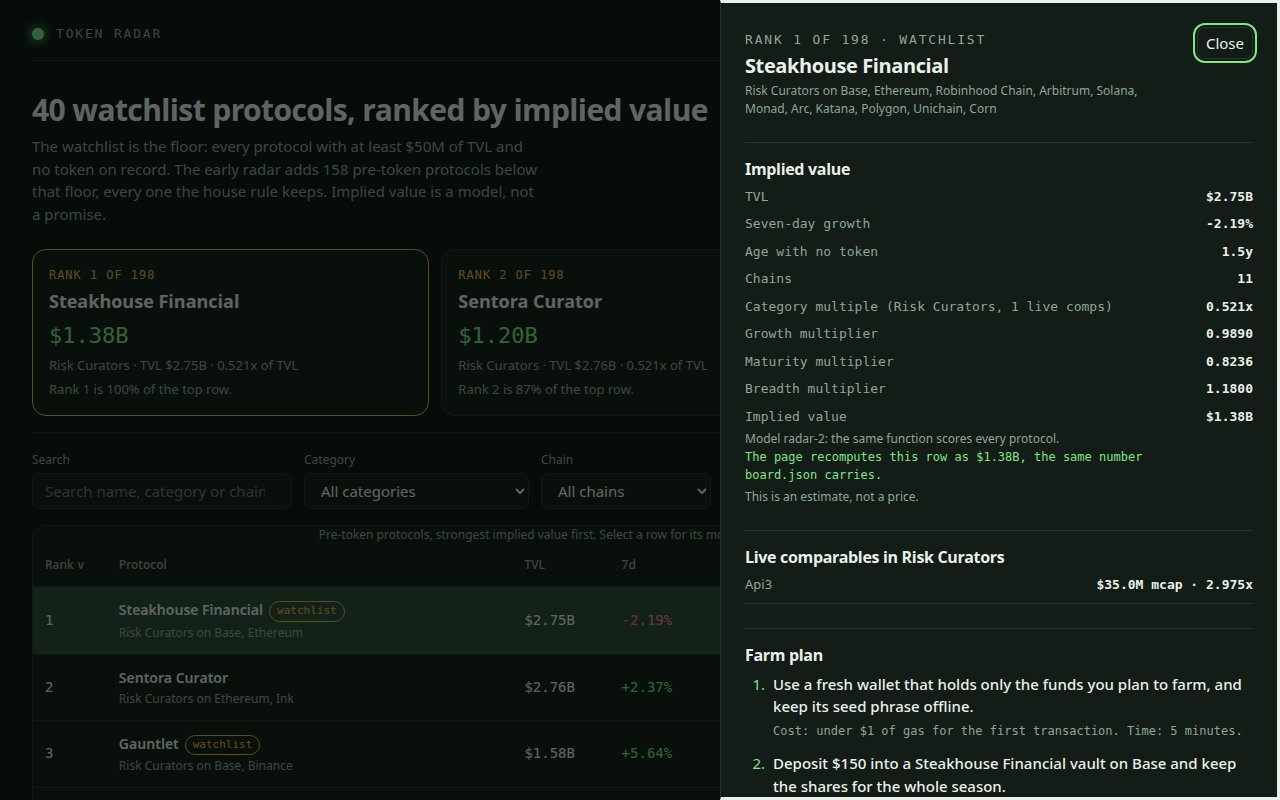
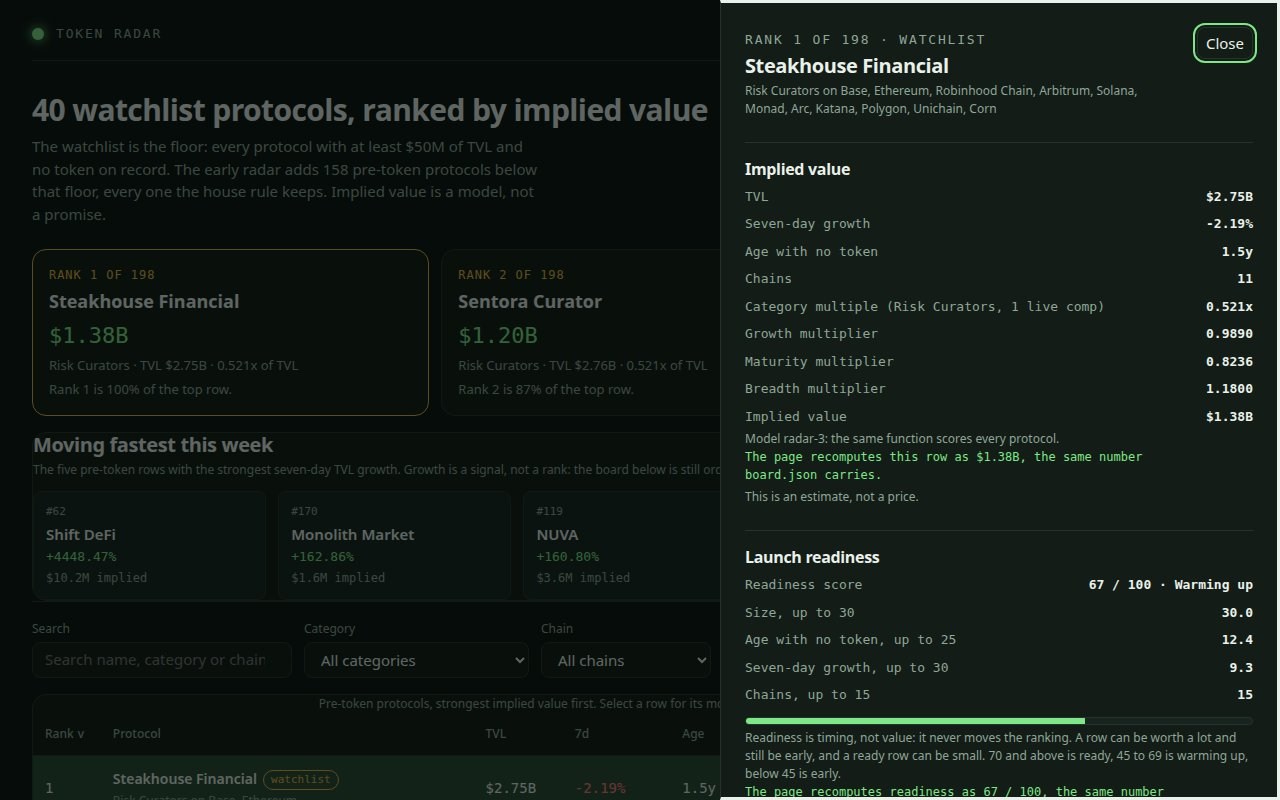
radar-3: launch-readiness score, top movers, 8-step farm plans, SPDX license line

diff --git a/dashboard/app.js b/dashboard/app.js
@@ -1,8 +1,9 @@
 // Token Radar's dashboard. It reads window.RADAR (written beside dashboard/ by main.ts) and
-// renders the ranked board, a filterable table, a per-protocol detail view with the model's own
-// inputs, its live comparables and the protocol's farm plan. No network: every byte it shows is
-// in data.js. The page recomputes each row from the snapshot figures and the comps table, so the
-// number on screen is the same arithmetic board.json carries.
+// renders the ranked board, a filterable table, a top-movers strip, and a per-protocol detail view
+// with the model's own inputs, its live comparables, a launch-readiness score and the protocol's
+// farm plan. No network: every byte it shows is in data.js. The page recomputes each row from
+// the snapshot figures and the comps table, so the number on screen is the same arithmetic
+// board.json carries.
 (function () {
   'use strict';
 
@@ -77,6 +78,29 @@
     var m = DATA.model;
     var chains = row.chains && row.chains.length > 0 ? row.chains.length : 1;
     return 1 + Math.min(chains - 1, m.breadth_max_chains) * m.breadth_per_chain;
+  }
+
+  // Launch readiness, 0..100, from the same four facts the value model reads, weighted for timing
+  // instead of size: size is worth 30 (a $2B protocol scores the full 30, a $50M one scores 0),
+  // age 25 (three years with no token scores the full 25), seven-day growth 30 (flat scores 10,
+  // +60% scores 30, -30% scores 0), and breadth 15 (one chain scores 0, nine or more score 15).
+  // The page recomputes the same score from the same figures, so the number on screen is the
+  // number board.json carries. It never moves the ranking: it is the timing read beside the
+  // value read, so a row can be worth a lot and still be early.
+  function readinessOf(row) {
+    var size = Math.max(0, Math.min(30, (30 * Math.log10(Math.max(row.tvl_usd, 1) / 50000000)) / Math.log10(40)));
+    var age = row.age_days === null || row.age_days === undefined ? DATA.model.unknown_age_days : row.age_days;
+    var agePts = Math.min(25, (25 * Math.min(Math.max(age, 0), DATA.model.maturity_days)) / DATA.model.maturity_days);
+    var growth = row.change_7d === null || row.change_7d === undefined ? 0 : row.change_7d;
+    var growthPts = 10 + Math.min(20, Math.max(-10, (Math.min(60, Math.max(-30, growth)) / 60) * 20));
+    var chains = row.chains && row.chains.length > 0 ? row.chains.length : 1;
+    var breadthPts = Math.min(15, Math.max(0, chains - 1) * 2);
+    return Math.min(100, Math.max(0, Math.round(size + agePts + growthPts + breadthPts)));
+  }
+  function readinessLabel(score) {
+    if (score >= 70) return 'Ready';
+    if (score >= 45) return 'Warming up';
+    return 'Early';
   }
 
   function el(tag, attrs) {
@@ -160,7 +184,9 @@
       { text: 'Make one qualifying action each week, such as a deposit, a borrow, a swap or a vote.', cost: gas + ' a week', time: '10 minutes a week' },
       { text: 'Hold the position for at least ' + hold + ' days so the activity is counted in more than one snapshot.', cost: 'the $' + capital + ' stays in the position', time: hold + ' days' },
       { text: "Before you withdraw, open the protocol's own points or rewards page and claim only from the link it publishes.", cost: 'no fee to check, and never pay to claim', time: '10 minutes' },
-      { text: 'Write the wallet, the dates and every transaction in a farm log so you can repeat the position or unwind it.', cost: 'nothing but the log', time: '5 minutes' }
+      { text: 'Write the wallet, the dates and every transaction in a farm log so you can repeat the position or unwind it.', cost: 'nothing but the log', time: '5 minutes' },
+      { text: "Check the protocol's own announcement channels once a week, its governance forum and its social account, and note the date of any token or points announcement.", cost: 'no fee, just the weekly check', time: '10 minutes a week' },
+      { text: "Decide the exit before the launch: how much of any airdrop to keep and how much to sell, and leave enough of the chain's gas token in the wallet to claim and move it.", cost: 'the gas token you keep back', time: '10 minutes' }
     ].map(stepText);
   }
 
@@ -207,6 +233,7 @@
       else if (key === 'tvl') { av = a.tvl_usd; bv = b.tvl_usd; }
       else if (key === 'growth') { av = a.change_7d === null ? -Infinity : a.change_7d; bv = b.change_7d === null ? -Infinity : b.change_7d; }
       else if (key === 'age') { av = a.age_days === null ? Infinity : a.age_days; bv = b.age_days === null ? Infinity : b.age_days; }
+      else if (key === 'readiness') { av = readinessOf(a); bv = readinessOf(b); }
       else if (key === 'multiple') { av = a.category_multiple; bv = b.category_multiple; }
       else { av = a.implied_value_usd; bv = b.implied_value_usd; }
       if (av < bv) return -state.dir;
@@ -254,6 +281,29 @@
           el('span', { class: 'spot-sub', text: 'Rank ' + r.rank + ' is ' + Math.round((r.implied_value_usd / max) * 100) + '% of the top row.' })
         );
       })
+    );
+  }
+
+  // The week's fastest growers on the board: the five pre-token rows whose TVL moved the most
+  // in seven days. Growth alone is not value — the board is still ranked by implied value — but
+  // a row that is both large and suddenly growing is the one whose launch window may be opening.
+  function movers() {
+    var top = DATA.rows.slice().sort(function (a, b) {
+      var av = a.change_7d === null ? -Infinity : a.change_7d;
+      var bv = b.change_7d === null ? -Infinity : b.change_7d;
+      return bv - av || (a.slug < b.slug ? -1 : 1);
+    }).slice(0, 5);
+    return el('section', { class: 'panel movers', 'aria-label': 'Fastest growers this week' },
+      el('h2', { text: 'Moving fastest this week' }),
+      el('p', { class: 'sub', text: 'The five pre-token rows with the strongest seven-day TVL growth. Growth is a signal, not a rank: the board below is still ordered by implied value.' }),
+      el('div', { class: 'mover-list' }, top.map(function (r) {
+        return el('button', { type: 'button', class: 'mover', onclick: function () { openDetail(r.slug); } },
+          el('span', { class: 'mover-rank', text: '#' + r.rank }),
+          el('span', { class: 'mover-name', text: r.name }),
+          el('span', { class: 'mover-growth ' + (r.change_7d >= 0 ? 'pos' : 'neg'), text: fmtPct(r.change_7d) }),
+          el('span', { class: 'mover-value', text: fmtUsd(r.implied_value_usd) + ' implied' })
+        );
+      }))
     );
   }
 
@@ -324,6 +374,7 @@
         el('td', { class: 'num', text: fmtUsd(r.tvl_usd) }),
         el('td', { class: 'num ' + growthClass, text: growth }),
         el('td', { class: 'num', text: fmtAge(r.age_days) }),
+        el('td', { class: 'num', text: readinessOf(r) + ' / 100' }),
         el('td', { class: 'num', text: fmtMult(r.category_multiple) }),
         el('td', null, el('div', { class: 'implied' },
           el('div', { class: 'bar', 'aria-hidden': 'true' }, el('i', { style: 'width:' + Math.max(3, Math.round((r.implied_value_usd / max) * 100)) + '%' })),
@@ -343,6 +394,7 @@
             sortHeader('tvl', 'TVL'),
             sortHeader('growth', '7d'),
             sortHeader('age', 'Age'),
+            sortHeader('readiness', 'Ready'),
             sortHeader('multiple', 'Multiple'),
             sortHeader('implied', 'Implied value'),
             el('th', { scope: 'col', text: 'Token' })
@@ -395,6 +447,7 @@
         'implied = round( tvl_usd x category_multiple x (1 + clamp(change_7d, ' + m.growth_floor + ', ' + m.growth_cap + ') / 100 x ' + m.growth_weight + ') x (' + m.maturity_floor + ' + min(age_days, ' + m.maturity_days + ') / ' + m.maturity_days + ' x ' + m.maturity_range + ') x (1 + min(chains - 1, ' + m.breadth_max_chains + ') x ' + m.breadth_per_chain + ') )'
       ),
       el('p', { class: 'sub', text: 'The category multiple is the median market-cap-to-TVL ratio of the live protocols in that category, each ratio first capped at the market 90th percentile of ' + fmtRatio(DATA.winsor_cap) + ', then shrunk toward the whole market median of ' + fmtRatio(DATA.global_median) + ' with weight ' + m.shrink_k + ' so a category with one or two comparables cannot price a protocol at ten times its TVL, and clamped to ' + m.multiple_floor + 'x-' + m.multiple_cap + 'x. Age is the time since the protocol was first listed, the best record of how long it has run with no token; an unlisted age uses ' + m.unknown_age_days + ' days.' }),
+      el('p', { class: 'sub', text: 'Readiness is a second score, 0 to 100, built from the same four facts and weighted for timing: size is worth 30, age 25, seven-day growth 30 and breadth 15. It never moves the ranking; it is the timing read beside the value read. Every row also carries an eight-step farm plan, and the page recomputes the plan from the same figures, so the steps on screen are the steps board.json carries.' }),
       el('div', { class: 'table-wrap' },
         el('table', { class: 'comps' },
           el('caption', { class: 'sub', text: 'Live comparables by category: the market the multiples are calibrated on.' }),
@@ -417,6 +470,7 @@
     dialog.textContent = '';
     var steps = farmSteps(row);
     var recomputed = impliedOf(row);
+    var ready = readinessOf(row);
     var comp = compFor(row.category);
     var sameCategory = DATA.live_all.filter(function (l) { return l.category === row.category; })
       .sort(function (a, b) { return (b.mcap_usd || 0) - (a.mcap_usd || 0); }).slice(0, 3);
@@ -454,6 +508,19 @@
       el('p', { class: 'sub', text: 'This is an estimate, not a price.' })
     ));
     dialog.appendChild(el('section', { class: 'detail-section' },
+      el('h3', { text: 'Launch readiness' }),
+      el('div', { class: 'equation' },
+        el('div', null, el('span', { text: 'Readiness score' }), el('b', { class: 'num', text: ready + ' / 100 · ' + readinessLabel(ready) })),
+        el('div', null, el('span', { text: 'Size, up to 30' }), el('b', { class: 'num', text: Math.max(0, Math.min(30, (30 * Math.log10(Math.max(row.tvl_usd, 1) / 50000000)) / Math.log10(40))).toFixed(1) })),
+        el('div', null, el('span', { text: 'Age with no token, up to 25' }), el('b', { class: 'num', text: (Math.min(25, (25 * Math.min(Math.max(row.age_days === null ? DATA.model.unknown_age_days : row.age_days, 0), DATA.model.maturity_days)) / DATA.model.maturity_days)).toFixed(1) })),
+        el('div', null, el('span', { text: 'Seven-day growth, up to 30' }), el('b', { class: 'num', text: (10 + Math.min(20, Math.max(-10, (Math.min(60, Math.max(-30, row.change_7d === null ? 0 : row.change_7d)) / 60) * 20))).toFixed(1) })),
+        el('div', null, el('span', { text: 'Chains, up to 15' }), el('b', { class: 'num', text: String(Math.min(15, Math.max(0, (row.chains ? row.chains.length : 1) - 1) * 2)) }))
+      ),
+      el('div', { class: 'ready-bar', 'aria-hidden': 'true' }, el('i', { style: 'width:' + ready + '%' })),
+      el('p', { class: 'sub', text: 'Readiness is timing, not value: it never moves the ranking. A row can be worth a lot and still be early, and a ready row can be small. 70 and above is ready, 45 to 69 is warming up, below 45 is early.' }),
+      el('p', { class: ready === row.readiness ? 'match' : 'mismatch', text: ready === row.readiness ? 'The page recomputes readiness as ' + ready + ' / 100, the same number board.json carries.' : 'The page recomputes readiness as ' + ready + ' / 100, which differs from the board: the data would be stale.' })
+    ));
+    dialog.appendChild(el('section', { class: 'detail-section' },
       el('h3', { text: 'Live comparables in ' + (row.category || 'this category') }),
       compBlock
     ));
@@ -486,6 +553,7 @@
     shell.appendChild(header());
     shell.appendChild(lede());
     shell.appendChild(spotlight());
+    shell.appendChild(movers());
     shell.appendChild(controls());
     shell.appendChild(state.tab === 'pre-token' ? boardTable() : liveTable());
     if (state.tab === 'pre-token') shell.appendChild(modelPanel());

diff --git a/lib/model.ts b/lib/model.ts
@@ -27,6 +27,13 @@
 //   breadth    = 1 + min(chains - 1, 9) x 0.02
 //   implied    = max(1, round(base x growthMult x maturity x breadth))
 //
+// Readiness is a second, separate signal: how close a protocol looks to launching, on a 0..100
+// scale built from the same four facts the value model reads, weighted differently: size is worth
+// 30 (a $2B protocol scores the full 30, a $50M one scores 0), age 25 (three years with no token
+// scores the full 25), seven-day growth 30 (flat scores 10, +60% scores 30, -30% scores 0), and
+// breadth 15 (one chain scores 0, nine or more score 15). It never moves the ranking: it is the
+// timing read beside the value read, so a row can be worth a lot and still be early.
+//
 // TVL is the size of the business, the category multiple is what the market pays for that kind of
 // business, growth is its direction, maturity is how long it has run with no token (a protocol that
 // held billions for years without issuing is the one whose launch is overdue), and breadth is how
@@ -89,7 +96,7 @@ export const MODEL: ModelConstants = {
 };
 
 /** The model's version label: the dashboard names it. */
-export const MODEL_VERSION = 'radar-2';
+export const MODEL_VERSION = 'radar-3';
 
 /** How many live-token protocols the Live token view carries, by market cap. */
 export const LIVE_ROWS = 24;
@@ -117,6 +124,7 @@ export interface BoardRow {
   token_status: 'pre-token';
   age_days: number | null;
   implied_value_usd: number;
+  readiness: number;
   model: {
     category: string | null;
     category_multiple: number;
@@ -127,6 +135,8 @@ export interface BoardRow {
     maturity_multiplier: number;
     breadth_multiplier: number;
     age_days: number | null;
+    readiness: number;
+    readiness_label: string;
   };
   farm_steps: string[];
 }
@@ -150,6 +160,7 @@ export interface RadarRow {
   change_7d: number | null;
   age_days: number | null;
   implied_value_usd: number;
+  readiness: number;
   category_multiple: number;
   growth_multiplier: number;
   maturity_multiplier: number;
@@ -327,6 +338,31 @@ export function impliedValue(
   return { implied, categoryMultiple: multiple, compsN: n, categoryMedian: median, growthPct, growthMult, maturityMult, breadthMult, age };
 }
 
+/**
+ * How close a protocol looks to launching, 0..100, from the same four facts the value model
+ * reads, weighted for timing instead of size: size is worth 30 (a $2B protocol scores the full
+ * 30, a $50M one scores 0), age 25 (three years with no token scores the full 25), seven-day
+ * growth 30 (flat scores 10, +60% scores 30, -30% scores 0), and breadth 15 (one chain scores 0,
+ * nine or more score 15). The page recomputes the same score from the same figures, so the
+ * number on screen is the number board.json carries.
+ */
+export function readinessOf(tvlUsd: number, change7d: number | null, age: number | null, chains: number): number {
+  const size = Math.max(0, Math.min(30, (30 * Math.log10(Math.max(tvlUsd, 1) / 50_000_000)) / Math.log10(40)));
+  const ageDays = age ?? MODEL.unknown_age_days;
+  const agePts = Math.min(25, (25 * Math.min(Math.max(ageDays, 0), MODEL.maturity_days)) / MODEL.maturity_days);
+  const growth = change7d === null ? 0 : change7d;
+  const growthPts = 10 + Math.min(20, Math.max(-10, (Math.min(60, Math.max(-30, growth)) / 60) * 20));
+  const breadthPts = Math.min(15, Math.max(0, chains - 1) * 2);
+  return Math.min(100, Math.max(0, Math.round(size + agePts + growthPts + breadthPts)));
+}
+
+/** What a readiness score means: ready to watch daily, warming up, or still early. */
+export function readinessLabel(score: number): string {
+  if (score >= 70) return 'Ready';
+  if (score >= 45) return 'Warming up';
+  return 'Early';
+}
+
 /** The snapshot's protocol by slug. */
 function bySlug(protocols: SnapshotProtocol[]): Map<string, SnapshotProtocol> {
   return new Map(protocols.map((p) => [p.slug, p]));
@@ -351,7 +387,8 @@ export function buildBoard(snapshot: Snapshot, model: ModelConstants = MODEL): B
 
   const scored = [...chosen.values()].map((p) => {
     const v = impliedValue(p, snapshot.as_of, comps, globalMedian, model);
-    return { p, ...v };
+    const ready = readinessOf(p.tvl_usd, p.change_7d, v.age, p.chains.length);
+    return { p, ...v, ready };
   });
   scored.sort((a, b) => b.implied - a.implied || (a.p.slug < b.p.slug ? -1 : a.p.slug > b.p.slug ? 1 : 0));
   return scored.map((s, i) => ({
@@ -369,6 +406,7 @@ export function buildBoard(snapshot: Snapshot, model: ModelConstants = MODEL): B
     token_status: 'pre-token' as const,
     age_days: s.age,
     implied_value_usd: s.implied,
+    readiness: s.ready,
     model: {
       category: s.p.category,
       category_multiple: round4(s.categoryMultiple),
@@ -379,6 +417,8 @@ export function buildBoard(snapshot: Snapshot, model: ModelConstants = MODEL): B
       maturity_multiplier: round4(s.maturityMult),
       breadth_multiplier: round4(s.breadthMult),
       age_days: s.age,
+      readiness: s.ready,
+      readiness_label: readinessLabel(s.ready),
     },
     farm_steps: farmSteps(s.p, s.age).map(stepText),
   }));
@@ -452,8 +492,10 @@ function actionFor(p: SnapshotProtocol, capital: number, chain: string): string 
 }
 
 /**
- * A protocol's farm plan: six steps, each an action with a cost and a time. The plan is derived from
- * the protocol's own record (category, chains, TVL, age), never from a hand-written list of names.
+ * A protocol's farm plan: eight steps, each an action with a cost and a time. The plan is derived
+ * from the protocol's own record (category, chains, TVL, age), never from a hand-written list of
+ * names. The last two steps are the same for every row: watch for the launch, then decide the exit
+ * before it happens, so the plan ends with the token instead of the position.
  */
 export function farmSteps(p: SnapshotProtocol, age: number | null): FarmStep[] {
   const chain = chainOf(p);
@@ -492,6 +534,16 @@ export function farmSteps(p: SnapshotProtocol, age: number | null): FarmStep[] {
       cost: 'nothing but the log',
       time: '5 minutes',
     },
+    {
+      text: `Check the protocol's own announcement channels once a week, its governance forum and its social account, and note the date of any token or points announcement.`,
+      cost: 'no fee, just the weekly check',
+      time: '10 minutes a week',
+    },
+    {
+      text: `Decide the exit before the launch: how much of any airdrop to keep and how much to sell, and leave enough of the chain's gas token in the wallet to claim and move it.`,
+      cost: 'the gas token you keep back',
+      time: '10 minutes',
+    },
   ];
 }
 
@@ -524,6 +576,7 @@ export function radarRow(row: BoardRow, watchlist: boolean): RadarRow {
     change_7d: row.change_7d,
     age_days: row.age_days,
     implied_value_usd: row.implied_value_usd,
+    readiness: row.readiness,
     category_multiple: row.model.category_multiple,
     growth_multiplier: row.model.growth_multiplier,
     maturity_multiplier: row.model.maturity_multiplier,

diff --git a/dashboard/app.css b/dashboard/app.css
@@ -168,3 +168,18 @@ tbody tr[data-selected="true"] { background: var(--accent-dim); }
 @media (prefers-reduced-motion: reduce) {
   *, *::before, *::after { transition-duration: 0.01ms !important; animation-duration: 0.01ms !important; animation-iteration-count: 1 !important; }
 }
+
+.movers h2 { margin-bottom: var(--step-1); }
+.mover-list { display: grid; grid-template-columns: repeat(5, 1fr); gap: var(--step-3); margin-top: var(--step-3); }
+.mover { display: grid; gap: 2px; text-align: left; background: var(--surface-2); border: 1px solid var(--border); border-radius: 8px; padding: var(--step-3); color: inherit; cursor: pointer; font: inherit; }
+.mover:hover { border-color: var(--accent); }
+.mover-rank { color: var(--muted); font-size: 11px; font-family: var(--font-num); }
+.mover-name { font-weight: 600; overflow: hidden; text-overflow: ellipsis; white-space: nowrap; }
+.mover-growth { font-family: var(--font-num); font-size: 13px; }
+.mover-value { color: var(--muted); font-size: 12px; font-family: var(--font-num); }
+.ready-bar { height: 8px; background: var(--surface-2); border: 1px solid var(--border); border-radius: 4px; margin-top: var(--step-3); overflow: hidden; }
+.ready-bar i { display: block; height: 100%; background: var(--accent); }
+
+@media (max-width: 900px) {
+  .mover-list { grid-template-columns: 1fr 1fr; }
+}

diff --git a/README.md b/README.md
@@ -8,7 +8,11 @@ Token Radar ranks 198 pre-token DeFi protocols by comps-calibrated implied launc
 
 ## How it works
 
-The program reads a sealed snapshot of the protocols DefiLlama tracks, keeps every protocol that records no token and is not a wrapped, staked or bridged product of a token that already trades (the house watchlist rule, applied to the whole board), and ranks it by implied value. The value is calibrated on the live market: each category's multiple is the median market-cap-to-TVL ratio of the live protocols in that category, winsorized at the market's 90th percentile and shrunk toward the whole market's median, then adjusted for seven-day growth, for how long the protocol has run with no token, and for how many chains it spans. Every row carries a six-step farm plan with costs and times, and the dashboard recomputes every row from the same figures, so the page and the board agree.
+The program reads a sealed snapshot of the protocols DefiLlama tracks, keeps every protocol that records no token and is not a wrapped, staked or bridged product of a token that already trades (the house watchlist rule, applied to the whole board), and ranks it by implied value. The value is calibrated on the live market: each category's multiple is the median market-cap-to-TVL ratio of the live protocols in that category, winsorized at the market's 90th percentile and shrunk toward the whole market's median, then adjusted for seven-day growth, for how long the protocol has run with no token, and for how many chains it spans. Every row carries an eight-step farm plan with costs and times, and the dashboard recomputes every row from the same figures, so the page and the board agree.
+
+## Readiness
+
+Each row also carries a launch-readiness score from 0 to 100, a timing read beside the value read: size is worth 30, age with no token 25, seven-day growth 30 and chain breadth 15. A score of 70 or more is ready, 45 to 69 is warming up, below 45 is early. Readiness never moves the ranking — a row can be worth a lot and still be early. The board table has a Ready column that sorts by it, the top-movers strip shows the week's five fastest growers, and each protocol's detail view breaks the score into its four parts and checks it against the board.
 
 ## Run it
 
